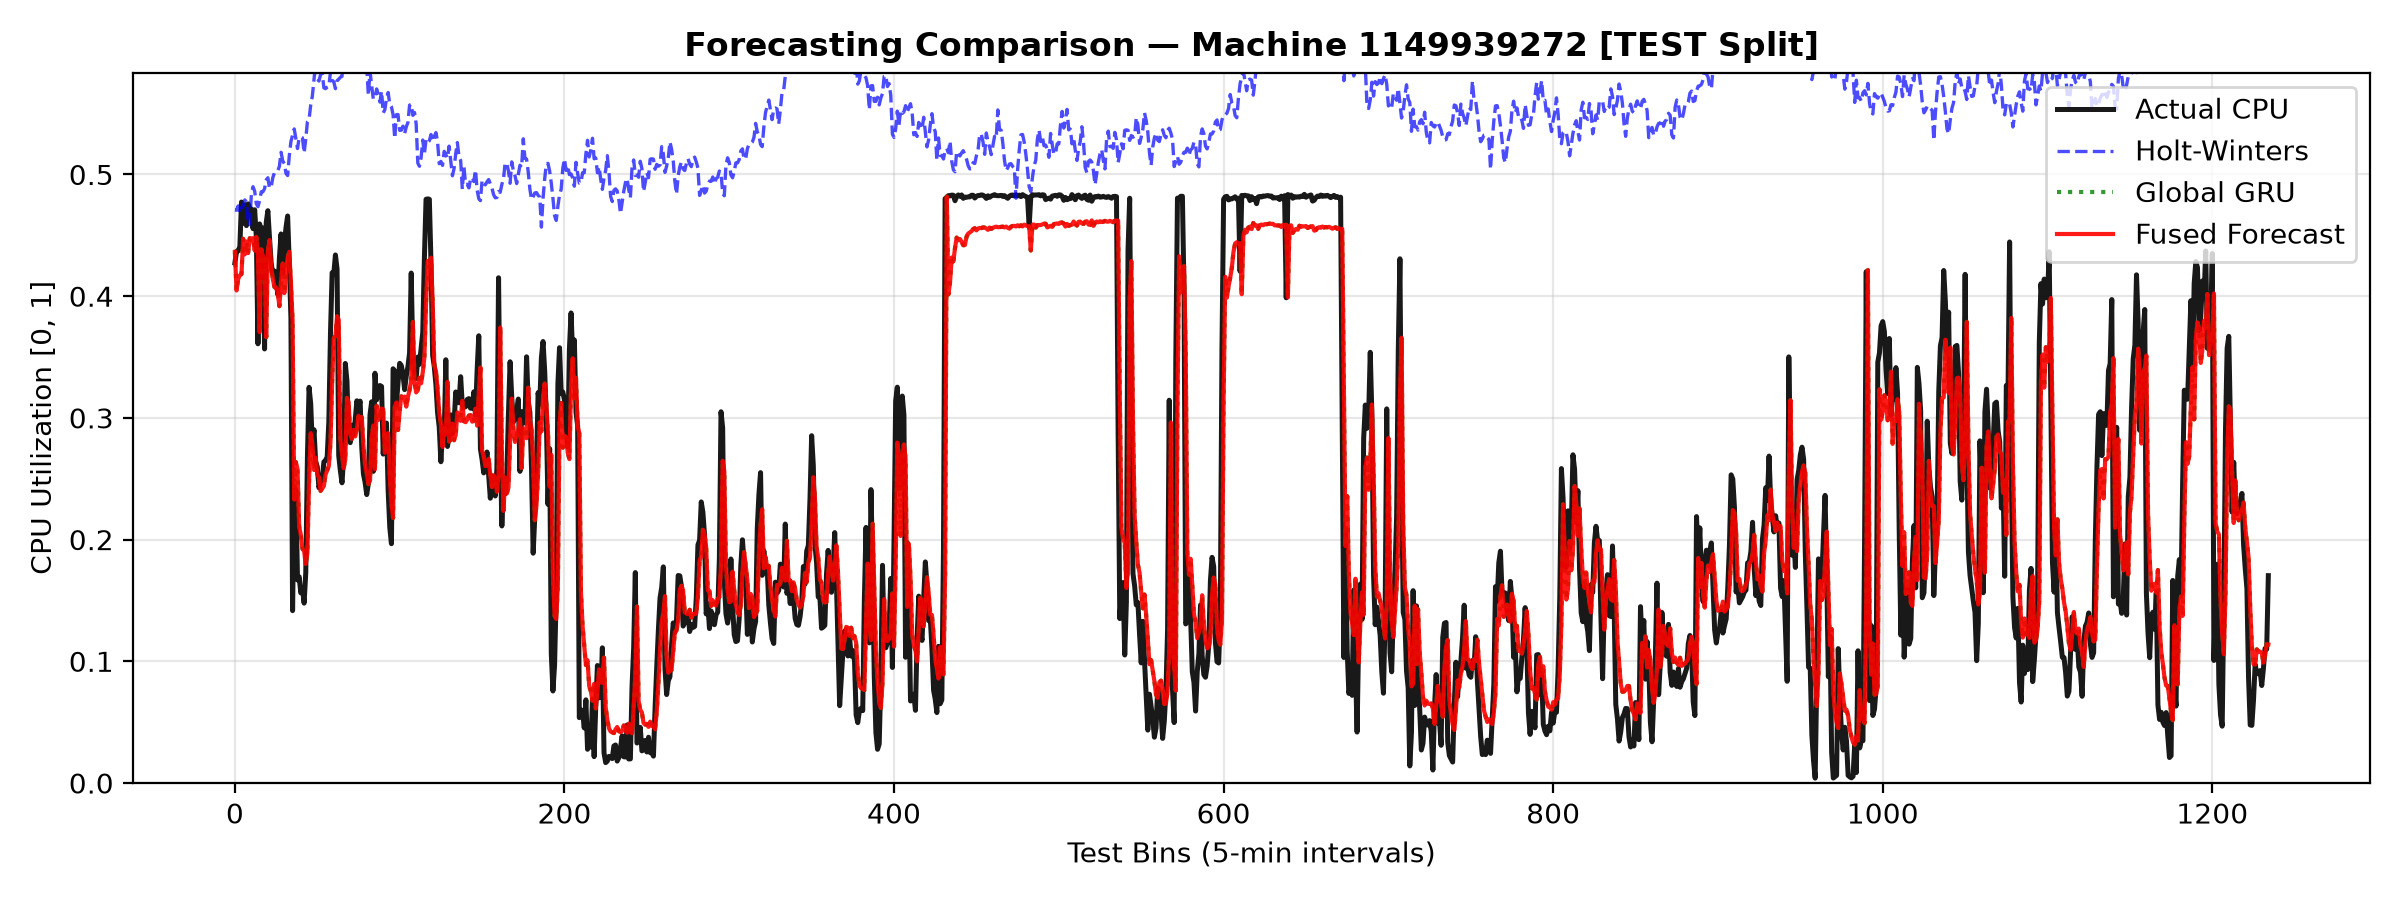
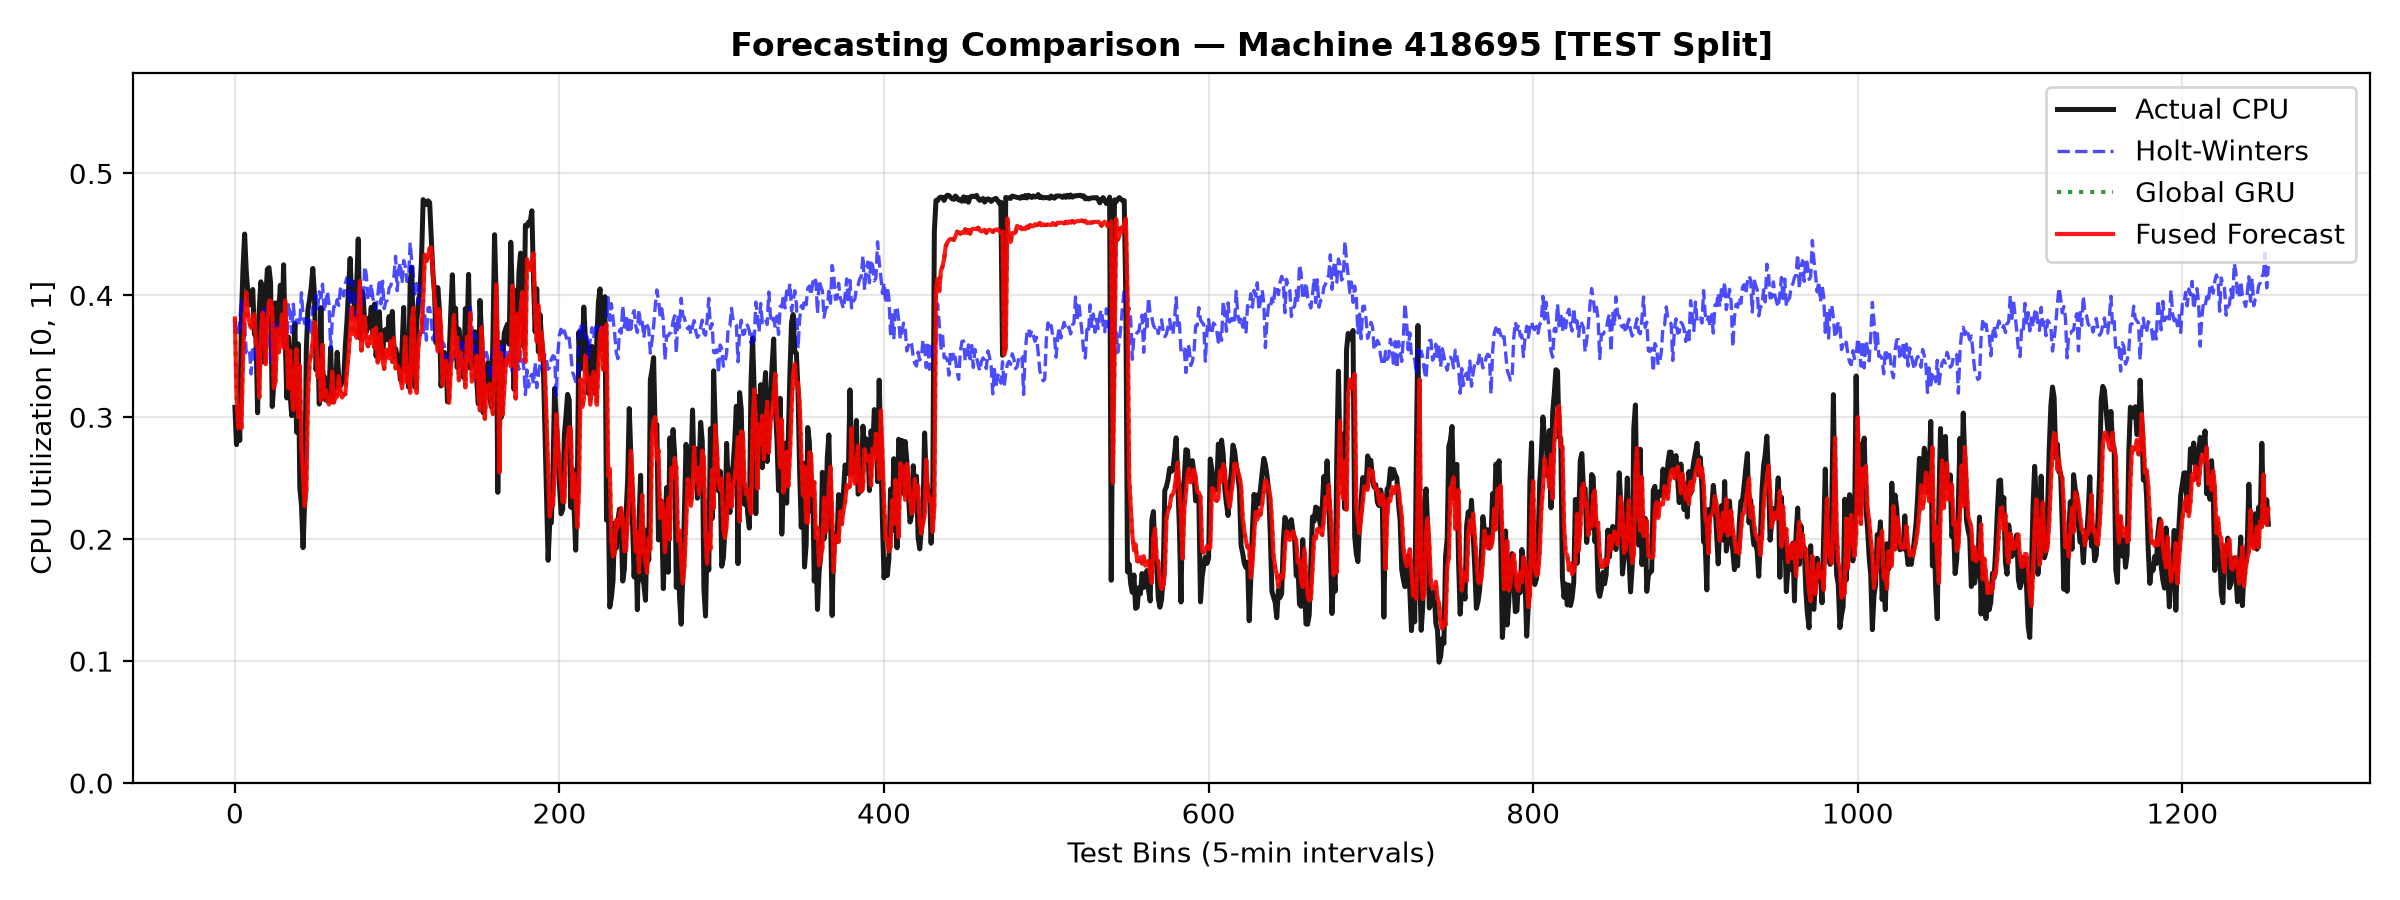
feat: add switch-case machine selection with --random option and dual test vs random comparison plots

diff --git a/scripts/figures.py b/scripts/figures.py
@@ -371,6 +371,160 @@ def plot_prediction_comparison_multi(fusion_preds_path: str, output_path: str,
     print(f"Saved: {output_path}")
 
 
+def get_switch_case_machines(df: pd.DataFrame, mode: str = "default",
+                             machine_id: int = None, seed: int = None):
+    """
+    Switch-case selection for evaluation machines:
+    - 'test' / 'fixed': Return canonical benchmark machine (418695 or specified machine_id)
+    - 'random': Return one randomly sampled machine from the available cluster machines
+    - 'compare' / 'both': Return a tuple (test_machine, random_machine) for dual comparison
+    """
+    unique_mids = sorted(df['machine_id'].unique().tolist())
+    default_test = machine_id if (machine_id is not None and machine_id in unique_mids) else 418695
+    if default_test not in unique_mids and len(unique_mids) > 0:
+        default_test = unique_mids[0]
+
+    rng = np.random.default_rng(seed)
+    candidates = [m for m in unique_mids if m != default_test]
+    random_machine = int(rng.choice(candidates)) if candidates else default_test
+
+    match mode.lower():
+        case "random":
+            selected = [random_machine]
+            desc = f"Random Machine ({random_machine})"
+        case "compare" | "both":
+            selected = [default_test, random_machine]
+            desc = f"Dual Comparison [Test Machine {default_test} vs Random Machine {random_machine}]"
+        case "test" | "fixed" | "default":
+            selected = [default_test]
+            desc = f"Canonical Test Machine ({default_test})"
+        case _:
+            selected = [default_test]
+            desc = f"Canonical Test Machine ({default_test})"
+
+    return selected, desc, default_test, random_machine
+
+
+def plot_test_vs_random_allocation(selector_log_path: str, output_path: str,
+                                   test_mid: int = 418695, random_mid: int = None,
+                                   beta: float = None, start_bin: int = None,
+                                   end_bin: int = None, split: str = 'test', seed: int = None):
+    """Plot dual allocation comparison of one fixed test machine and one randomly selected machine."""
+    df = pd.read_csv(selector_log_path)
+    sub_df = df[df['split'] == split] if 'split' in df.columns else df
+    if sub_df.empty:
+        return
+
+    unique_mids = sorted(sub_df['machine_id'].unique().tolist())
+    if test_mid not in unique_mids:
+        test_mid = unique_mids[0]
+
+    if random_mid is None or random_mid not in unique_mids:
+        rng = np.random.default_rng(seed)
+        pool = [m for m in unique_mids if m != test_mid]
+        random_mid = int(rng.choice(pool)) if pool else test_mid
+
+    eff_beta = beta if beta is not None else _get_default_beta()
+    pair = [("Test Machine (Canonical Benchmark)", test_mid),
+            (f"Random Machine (Sampled ID: {random_mid})", random_mid)]
+
+    fig, axes = plt.subplots(2, 1, figsize=(14, 7.5), sharex=True)
+
+    for idx, (label, mid) in enumerate(pair):
+        ax = axes[idx]
+        m_data = sub_df[sub_df['machine_id'] == mid].sort_values('bin_idx')
+        total_pts = len(m_data)
+        s_idx = max(0, start_bin) if start_bin is not None else 0
+        e_idx = min(total_pts, end_bin) if end_bin is not None else total_pts
+        sliced = m_data.iloc[s_idx:e_idx]
+
+        y_true = sliced['y_true'].values
+        fused = sliced['fused_pred'].values
+        u_star = sliced['U_star'].values
+        alloc = np.clip(fused + eff_beta * u_star, 0.0, 1.0)
+        grace = alloc + GRACE_BAND
+        bins = np.arange(s_idx, s_idx + len(sliced))
+
+        ax.plot(bins, y_true, 'k-', lw=1.5, label='Actual CPU', zorder=3)
+        ax.plot(bins, alloc, 'b-', lw=1.3, label=f'Allocation (beta={eff_beta:.1f})', zorder=2)
+        ax.plot(bins, grace, 'b--', lw=0.8, alpha=0.6, label='Grace (+0.005)', zorder=2)
+        ax.fill_between(bins, alloc, grace, color='blue', alpha=0.1, label='Grace Zone')
+        ax.fill_between(bins, y_true, alloc, where=(y_true > alloc), color='red', alpha=0.35, label='SLA Overshoot')
+
+        ax.set_title(f"{label} — Machine {mid} (Mean CPU: {y_true.mean():.2f}, Peak: {y_true.max():.2f})",
+                     fontsize=11, fontweight='bold')
+        ax.set_ylabel("Capacity [0, 1]", fontsize=9)
+        ax.set_ylim(0, max(0.5, max(alloc.max(), y_true.max()) + 0.08))
+        ax.grid(True, alpha=0.3)
+        ax.legend(loc='upper right', fontsize=8, frameon=True)
+
+    win_desc = f" (Bins {start_bin}:{end_bin})" if (start_bin is not None or end_bin is not None) else ""
+    axes[-1].set_xlabel(f"{split.title()} Bins (5-min intervals){win_desc}", fontsize=10)
+    fig.suptitle(f"Resource Allocation Dual Comparison: Test Machine {test_mid} vs Random Machine {random_mid}",
+                 fontsize=13, fontweight='bold', y=0.995)
+    plt.tight_layout()
+    os.makedirs(os.path.dirname(output_path), exist_ok=True)
+    plt.savefig(output_path, dpi=200)
+    plt.close()
+    print(f"Saved: {output_path}")
+
+
+def plot_test_vs_random_prediction(fusion_preds_path: str, output_path: str,
+                                   test_mid: int = 418695, random_mid: int = None,
+                                   start_bin: int = None, end_bin: int = None,
+                                   split: str = 'test', seed: int = None):
+    """Plot dual prediction comparison of one fixed test machine and one randomly selected machine."""
+    df = pd.read_csv(fusion_preds_path)
+    sub_df = df[df['split'] == split] if 'split' in df.columns else df
+    if sub_df.empty:
+        return
+
+    unique_mids = sorted(sub_df['machine_id'].unique().tolist())
+    if test_mid not in unique_mids:
+        test_mid = unique_mids[0]
+
+    if random_mid is None or random_mid not in unique_mids:
+        rng = np.random.default_rng(seed)
+        pool = [m for m in unique_mids if m != test_mid]
+        random_mid = int(rng.choice(pool)) if pool else test_mid
+
+    pair = [("Test Machine (Canonical Benchmark)", test_mid),
+            (f"Random Machine (Sampled ID: {random_mid})", random_mid)]
+
+    fig, axes = plt.subplots(2, 1, figsize=(14, 7.5), sharex=True)
+
+    for idx, (label, mid) in enumerate(pair):
+        ax = axes[idx]
+        m_data = sub_df[sub_df['machine_id'] == mid].sort_values('bin_idx')
+        total_pts = len(m_data)
+        s_idx = max(0, start_bin) if start_bin is not None else 0
+        e_idx = min(total_pts, end_bin) if end_bin is not None else total_pts
+        sliced = m_data.iloc[s_idx:e_idx]
+        bins = np.arange(s_idx, s_idx + len(sliced))
+
+        mae = float(np.mean(np.abs(sliced['y_true'] - sliced['fused_pred'])))
+        ax.plot(bins, sliced['y_true'], 'k-', lw=1.5, label='Actual CPU', alpha=0.9)
+        ax.plot(bins, sliced['hw_pred'], 'b--', lw=1.1, label='Holt-Winters', alpha=0.7)
+        ax.plot(bins, sliced['gru_pred'], 'g:', lw=1.3, label='Global GRU', alpha=0.8)
+        ax.plot(bins, sliced['fused_pred'], 'r-', lw=1.3, label='Fused', alpha=0.9)
+
+        ax.set_title(f"{label} — Machine {mid} (MAE: {mae:.4f})", fontsize=11, fontweight='bold')
+        ax.set_ylabel("CPU Utilization [0, 1]", fontsize=9)
+        ax.set_ylim(0, max(0.5, sliced['y_true'].max() + 0.1))
+        ax.grid(True, alpha=0.3)
+        ax.legend(loc='upper right', fontsize=8, frameon=True)
+
+    win_desc = f" (Bins {start_bin}:{end_bin})" if (start_bin is not None or end_bin is not None) else ""
+    axes[-1].set_xlabel(f"{split.title()} Bins (5-min intervals){win_desc}", fontsize=10)
+    fig.suptitle(f"Workload Forecast Dual Comparison: Test Machine {test_mid} vs Random Machine {random_mid}",
+                 fontsize=13, fontweight='bold', y=0.995)
+    plt.tight_layout()
+    os.makedirs(os.path.dirname(output_path), exist_ok=True)
+    plt.savefig(output_path, dpi=200)
+    plt.close()
+    print(f"Saved: {output_path}")
+
+
 def main():
     parser = argparse.ArgumentParser(description="Generate publication-ready figures")
     parser.add_argument("--figures_dir", type=str, default=FIGURES_DIR)
@@ -383,34 +537,60 @@ def main():
     parser.add_argument("--split", type=str, default='test')
     parser.add_argument("--beta", type=float, default=None)
     parser.add_argument("--multi", action="store_true", default=True, help="Also generate multi-machine 4-panel comparison plots")
+    parser.add_argument("--random", action="store_true", default=False, help="Pick a random machine from the dataset instead of default test machine")
+    parser.add_argument("--mode", type=str, default="default", choices=["default", "test", "random", "compare"],
+                        help="Machine evaluation mode: 'test' (fixed 418695), 'random' (random machine), or 'compare' (one test and one random machine)")
+    parser.add_argument("--seed", type=int, default=None, help="Random seed for random machine selection")
     args = parser.parse_args()
-
-    mids_list = [int(m.strip()) for m in args.machine_ids.split(',')] if args.machine_ids else DEFAULT_PANEL_MACHINES
 
     fusion_path = os.path.join(args.models_dir, "fusion_predictions.csv")
     uncertainty_path = os.path.join(args.uncertainty_dir, "uncertainty.csv")
     selector_path = os.path.join(args.uncertainty_dir, "selector_log.csv")
 
-    # Single-machine high-resolution figures
+    sel_df = pd.read_csv(selector_path)
+    eff_mode = "random" if args.random else args.mode
+
+    selected_mids, desc, test_mid, random_mid = get_switch_case_machines(
+        sel_df, mode=eff_mode, machine_id=args.machine_id, seed=args.seed
+    )
+    print(f"\n[Figures Switch-Case] Mode: '{eff_mode}' | {desc}")
+
+    # Primary target machine for single-machine plots:
+    # If mode is random, evaluate the random machine; otherwise use test_mid (418695 or custom)
+    target_mid = random_mid if eff_mode == "random" else test_mid
+
     plot_prediction_comparison(
         fusion_path, os.path.join(args.figures_dir, "prediction_comparison.png"),
-        machine_id=args.machine_id, start_bin=args.start_bin, end_bin=args.end_bin, split=args.split
+        machine_id=target_mid, start_bin=args.start_bin, end_bin=args.end_bin, split=args.split
     )
     plot_uncertainty_signals(
         uncertainty_path, os.path.join(args.figures_dir, "uncertainty_signals.png"),
-        machine_id=args.machine_id, start_bin=args.start_bin, end_bin=args.end_bin, split=args.split
+        machine_id=target_mid, start_bin=args.start_bin, end_bin=args.end_bin, split=args.split
     )
     plot_selector_choices(
         selector_path, os.path.join(args.figures_dir, "selector_choices.png"),
-        split=args.split, machine_id=args.machine_id
+        split=args.split, machine_id=target_mid if eff_mode == "random" else args.machine_id
     )
     plot_allocation_vs_actual(
         selector_path, os.path.join(args.figures_dir, "allocation_vs_actual.png"),
-        beta=args.beta, machine_id=args.machine_id, start_bin=args.start_bin, end_bin=args.end_bin, split=args.split
+        beta=args.beta, machine_id=target_mid, start_bin=args.start_bin, end_bin=args.end_bin, split=args.split
     )
 
-    # Multi-machine panel figures
+    # Dual Comparison: One Test Machine AND One Random Machine
+    plot_test_vs_random_allocation(
+        selector_path, os.path.join(args.figures_dir, "allocation_test_vs_random.png"),
+        test_mid=test_mid, random_mid=random_mid, beta=args.beta,
+        start_bin=args.start_bin, end_bin=args.end_bin, split=args.split, seed=args.seed
+    )
+    plot_test_vs_random_prediction(
+        fusion_path, os.path.join(args.figures_dir, "prediction_test_vs_random.png"),
+        test_mid=test_mid, random_mid=random_mid,
+        start_bin=args.start_bin, end_bin=args.end_bin, split=args.split, seed=args.seed
+    )
+
+    # Multi-machine 4-panel figures (across 4 operational archetypes)
     if args.multi:
+        mids_list = [int(m.strip()) for m in args.machine_ids.split(',')] if args.machine_ids else DEFAULT_PANEL_MACHINES
         plot_allocation_vs_actual_multi(
             selector_path, os.path.join(args.figures_dir, "allocation_vs_actual_multi.png"),
             machine_ids=mids_list, beta=args.beta, start_bin=args.start_bin, end_bin=args.end_bin, split=args.split

diff --git a/main.py b/main.py
@@ -591,6 +591,7 @@ def menu_step_14_figures():
         plot_prediction_comparison, plot_uncertainty_signals,
         plot_selector_choices, plot_allocation_vs_actual, plot_data_validation,
         plot_allocation_vs_actual_multi, plot_prediction_comparison_multi,
+        plot_test_vs_random_allocation, plot_test_vs_random_prediction,
         DEFAULT_PANEL_MACHINES
     )
 
@@ -614,9 +615,10 @@ def menu_step_14_figures():
         print(" [5] Multi-Machine 4-Panel Grid (Allocation & Predictions Across 4 Archetypes)")
         print(" [6] Interactive Selector Winning Signal Distribution Plot")
         print(" [7] Interactive Data Gate Inspection Plot (4 Machines)")
+        print(" [8] Test Machine vs Random Machine Comparison (Switch-Case Dual Plots)")
         print(" [B] Back to Main Menu")
         print("-" * 80)
-        choice = input("Select an option (1-7, B): ").strip().upper()
+        choice = input("Select an option (1-8, B): ").strip().upper()
 
         if choice == '1':
             run_script("figures.py", desc="Generating all default publication figures")
@@ -699,6 +701,27 @@ def menu_step_14_figures():
             out_f = os.path.join(FIGURES_DIR, "data_validation_custom.png")
             plot_data_validation(output_path=out_f)
             print(f"\n[Generated] Saved to: {out_f}")
+            pause()
+        elif choice == '8':
+            print("\nSwitch-Case Options:")
+            print("  [1] Pick One Random Machine & Generate its Full Figure Suite")
+            print("  [2] Generate Dual Comparison Plots (Test Machine 418695 vs Random Machine)")
+            sub_c = input("Choose option (1-2, default 2): ").strip() or "2"
+            sp = input("Enter Split (test/val, default test): ").strip().lower() or "test"
+            beta_in = input("Buffer multiplier beta (default calibrated beta*): ").strip()
+            beta = float(beta_in) if beta_in else None
+            seed_in = input("Random seed (optional, press Enter for random): ").strip()
+            seed = int(seed_in) if seed_in.isdigit() else None
+
+            if sub_c == '1':
+                run_script("figures.py", ["--random", "--split", sp] + (["--seed", str(seed)] if seed else []),
+                           desc="Generating figures for randomly selected machine")
+            else:
+                out_alloc = os.path.join(FIGURES_DIR, "allocation_test_vs_random.png")
+                out_pred = os.path.join(FIGURES_DIR, "prediction_test_vs_random.png")
+                plot_test_vs_random_allocation(selector_path, out_alloc, beta=beta, split=sp, seed=seed)
+                plot_test_vs_random_prediction(fusion_path, out_pred, split=sp, seed=seed)
+                print(f"\n[Generated] Saved Dual Comparison Plots:\n  {out_alloc}\n  {out_pred}")
             pause()
         elif choice == 'B':
             break

diff --git a/README.md b/README.md
@@ -393,15 +393,19 @@ To visually inspect how the framework behaves across diverse server workloads si
 The generated publication-quality figures are saved in `figures/`:
 1. `figures/allocation_vs_actual.png`: High-resolution single-machine allocation curve adapting above workload with grace band and physical $[0, 1]$ clipping (default Machine 418695).
 2. `figures/allocation_vs_actual_multi.png`: **2x2 Multi-Machine Panel** showing allocation, grace band, and SLA overshoots across all 4 workload archetypes side-by-side.
-3. `figures/prediction_comparison.png`: Actual vs Holt-Winters vs GRU vs Fused predictions over time (default Machine 418695).
-4. `figures/prediction_comparison_multi.png`: **2x2 Multi-Machine Panel** comparing point forecast tracking across all 4 workload archetypes side-by-side.
-5. `figures/uncertainty_signals.png`: Traces $U_1, U_2, U_3$ against actual forecast error spikes over time.
-6. `figures/selector_choices.png`: Distribution of winning signals selected across all 100 machines (120,000+ timesteps).
-7. `figures/data_validation.png`: Visual data gate inspection check across 4 candidate machines over 5-minute aggregate bins.
+3. `figures/allocation_test_vs_random.png`: **Dual Comparison Panel** contrasting the canonical Test Machine (`418695`) with a randomly selected machine side-by-side.
+4. `figures/prediction_comparison.png`: Actual vs Holt-Winters vs GRU vs Fused predictions over time (default Machine 418695).
+5. `figures/prediction_comparison_multi.png`: **2x2 Multi-Machine Panel** comparing point forecast tracking across all 4 workload archetypes side-by-side.
+6. `figures/prediction_test_vs_random.png`: **Dual Forecast Comparison Panel** comparing predictions between Test Machine (`418695`) and a random machine.
+7. `figures/uncertainty_signals.png`: Traces $U_1, U_2, U_3$ against actual forecast error spikes over time.
+8. `figures/selector_choices.png`: Distribution of winning signals selected across all 100 machines (120,000+ timesteps).
+9. `figures/data_validation.png`: Visual data gate inspection check across 4 candidate machines over 5-minute aggregate bins.
 
-> **How to View Any Machine**: You can plot ANY machine out of the 100 benchmark machines or customize the time window using:
-> - Interactive UI: `python main.py` $\rightarrow$ Option `[14]` (Step 14: Interactive Figure Generator)
-> - CLI Command: `python scripts/figures.py --machine_id 4820274279 --start_bin 0 --end_bin 288 --split test`
+> **How to View Any Machine or Switch Between Test and Random**:
+> - **Interactive Menu**: Run `python main.py` $\rightarrow$ Option `[14]` (Step 14) $\rightarrow$ Option `[8]` for Switch-Case Dual Plots.
+> - **Random Machine Selection**: Run `python scripts/figures.py --random` to evaluate a randomly sampled cluster machine.
+> - **Explicit Dual Comparison**: Run `python scripts/figures.py --mode compare` (or `--seed 42`) to generate the stacked Test vs. Random panels.
+> - **Custom Machine Slice**: Run `python scripts/figures.py --machine_id 4820274279 --start_bin 0 --end_bin 288 --split test`.
 
 ### Machine-Subset Sensitivity Analysis (8-Run Subsample Matrix)
 To verify metric stability across machine subsets and cluster scales, we evaluated an 8-run subsample matrix (4 subsample seeds × 2 machine counts: 50, 100 machines) in [`scripts/robustness.py`](file:///E:/Cloud/project/scripts/robustness.py).
@@ -459,8 +463,10 @@ Evaluated with PyTorch on single-sample inference latency (1,000 repetitions) an
 ├── figures/                             # Publication-ready visualization plots
 │   ├── allocation_vs_actual.png         # Single-machine high-resolution allocation (Machine 418695)
 │   ├── allocation_vs_actual_multi.png   # 2x2 Multi-machine allocation across 4 archetypes
+│   ├── allocation_test_vs_random.png    # Dual comparison: Test Machine vs Random Machine
 │   ├── prediction_comparison.png        # Single-machine forecast comparison (Machine 418695)
 │   ├── prediction_comparison_multi.png  # 2x2 Multi-machine forecast comparison across 4 archetypes
+│   ├── prediction_test_vs_random.png    # Dual comparison: Test Machine vs Random Machine
 │   ├── uncertainty_signals.png          # U1, U2, U3 signals vs absolute forecast error
 │   ├── selector_choices.png             # Cluster-wide winning signal distribution (100 machines)
 │   └── data_validation.png              # Data gate 4-machine visual telemetry check
